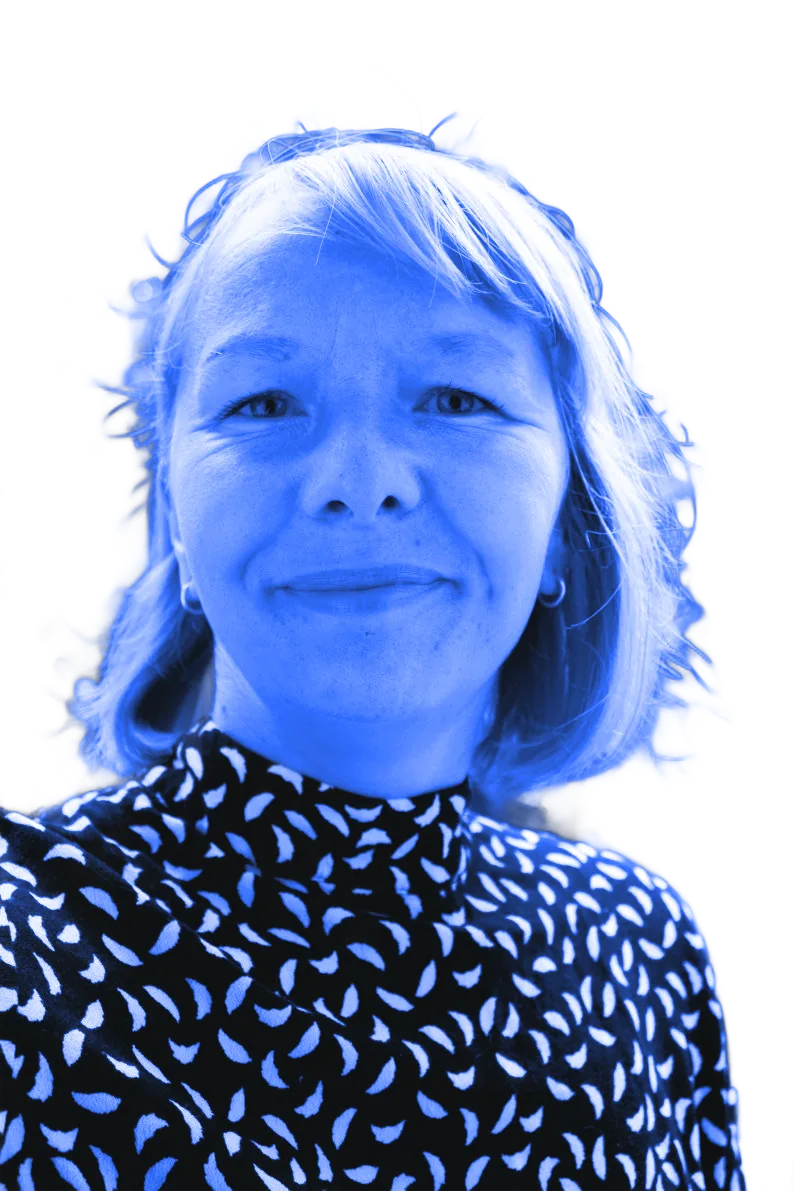
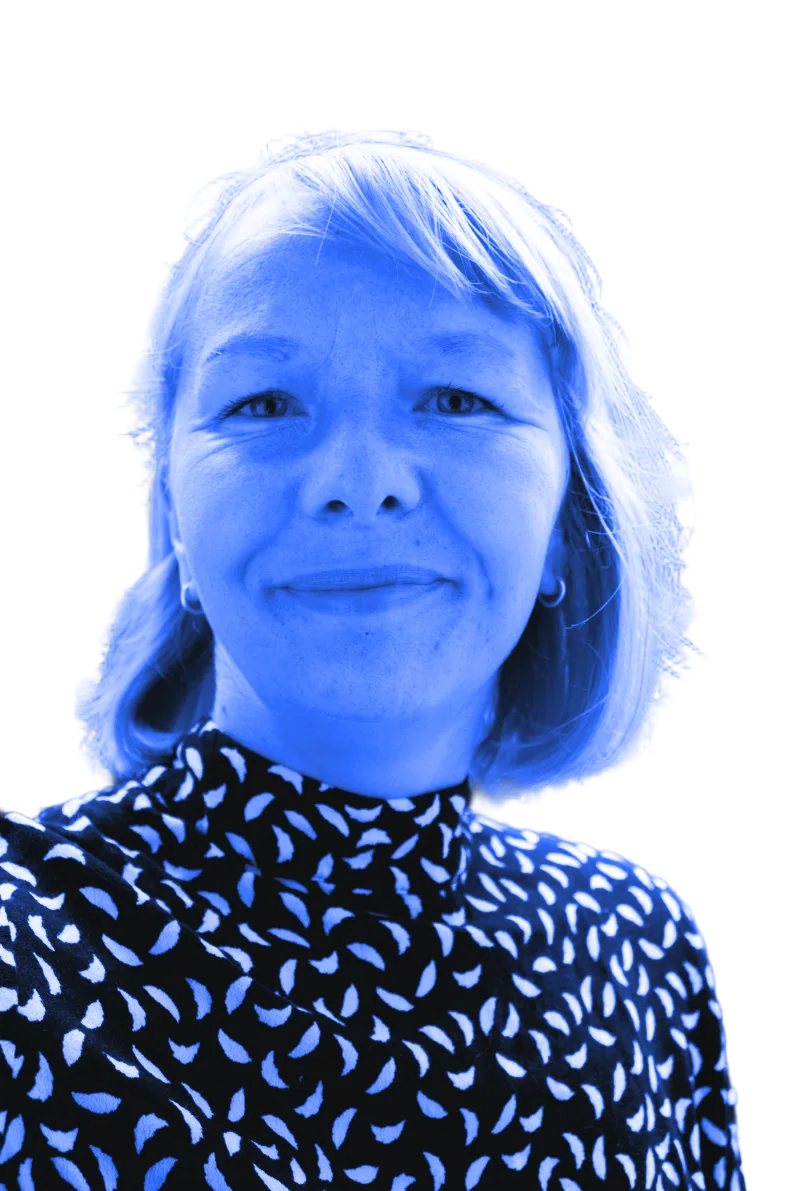
Freigestellte Fotos mit Porträt-Modell (BiRefNet) neu erzeugt: sauberere Haarkanten; Vergleich mit Photocraft im Werkzeug dokumentiert
Claude-Session: https://claude.ai/code/session_01DgHRh8FoC8rL4iNtf1G8sb

diff --git a/website/entwurf-startseite/index.html b/website/entwurf-startseite/index.html
@@ -150,7 +150,7 @@
       <figure><div class="ew-rahmen"><img src="../bilder/blau/studio-aah-gruenderin-anna-haertelt-frei-blau.webp" alt="Anna Härtelt mit Brille, blau getönt, vor blauem Hintergrund" width="768" height="1024" loading="lazy"></div><figcaption>Blau getönt auf Blau</figcaption></figure>
       <figure><div class="ew-rahmen"><img src="../bilder/blau/studio-aah-gruenderin-anna-haertelt-frei-sw.webp" alt="Anna Härtelt mit Brille in Schwarz-Weiß vor blauem Hintergrund" width="768" height="1024" loading="lazy"></div><figcaption>Schwarz-Weiß auf Blau</figcaption></figure>
     </div>
-    <p class="ew-notiz">Freigestellt mit einem frei verfügbaren KI-Modell (IS-Net). Die blaue Fläche kommt aus dem CSS – die Farbe lässt sich also jederzeit tauschen.</p>
+    <p class="ew-notiz">Freigestellt mit einem frei verfügbaren KI-Modell für Porträts (BiRefNet), ausgehend von den Web-Fassungen der Fotos – mit den Originaldateien in voller Auflösung werden die Haarkanten noch feiner. Die blaue Fläche kommt aus dem CSS – die Farbe lässt sich also jederzeit tauschen.</p>
   </section>
 
   <section class="ew-abschnitt" aria-labelledby="paare">

diff --git a/werkzeuge/grafiken/freistellen.py b/werkzeuge/grafiken/freistellen.py
@@ -3,10 +3,14 @@
 
 Anna: „Der Hintergrund muss monochrom sein“ – die Person steht freigestellt vor einer
 einfarbigen Fläche; die Farbe der Fläche setzt das CSS (Bild mit Transparenz).
-Freistell-Modell: IS-Net „isnet-general-use“ aus den rembg-Releases (nicht im Repository):
-  https://github.com/danielgatis/rembg/releases/download/v0.0.0/isnet-general-use.onnx
+Freistell-Modelle aus den rembg-Releases (nicht im Repository, ONNX):
+  empfohlen für Porträts (Haare): BiRefNet-portrait-epoch_150.onnx (ca. 970 MB, braucht viel Arbeitsspeicher)
+  https://github.com/danielgatis/rembg/releases/download/v0.0.0/BiRefNet-portrait-epoch_150.onnx
+  schneller, gröber: isnet-general-use.onnx (gleiche Adresse, anderer Dateiname)
+Vergleich am 13.10.2026: BiRefNet-portrait schneidet die Haare sauberer; Photocraft („Motiv auswählen“)
+erkannte nur den Pullover, seine Kantenverfeinerung brachte danach kaum noch Gewinn.
 Benötigt: numpy, onnxruntime, Pillow.
-Aufruf vom Repository-Ordner aus: python3 werkzeuge/grafiken/freistellen.py PFAD/isnet-general-use.onnx
+Aufruf vom Repository-Ordner aus: python3 werkzeuge/grafiken/freistellen.py PFAD/MODELL.onnx
 """
 import sys
 from pathlib import Path
@@ -22,9 +26,16 @@ ZIEL = Path("website/bilder/blau")
 BILDER = ["anna-haertelt-portraet.jpg", "studio-aah-gruenderin-anna-haertelt.webp"]
 
 
-def maske(sitzung, bild):
-    x = np.asarray(bild.resize((1024, 1024), Image.LANCZOS), dtype=np.float32) / 255.0 - 0.5
-    vorhersage = sitzung.run(None, {sitzung.get_inputs()[0].name: x.transpose(2, 0, 1)[None]})[0][0, 0]
+def maske(sitzung, bild, birefnet):
+    x = np.asarray(bild.resize((1024, 1024), Image.LANCZOS), dtype=np.float32)
+    if birefnet:  # Vorverarbeitung wie in rembg (BiRefNet)
+        x = x / max(float(x.max()), 1.0)
+        x = (x - np.array([0.485, 0.456, 0.406], dtype=np.float32)) / np.array([0.229, 0.224, 0.225], dtype=np.float32)
+    else:  # IS-Net
+        x = x / 255.0 - 0.5
+    vorhersage = sitzung.run(None, {sitzung.get_inputs()[0].name: x.transpose(2, 0, 1)[None].astype(np.float32)})[0][0, 0]
+    if birefnet:
+        vorhersage = 1 / (1 + np.exp(-vorhersage))
     vorhersage = (vorhersage - vorhersage.min()) / (vorhersage.max() - vorhersage.min())
     return Image.fromarray((vorhersage * 255).astype(np.uint8)).resize(bild.size, Image.LANCZOS)
 
@@ -32,11 +43,16 @@ def maske(sitzung, bild):
 def main():
     if len(sys.argv) < 2:
         sys.exit("Aufruf: python3 werkzeuge/grafiken/freistellen.py PFAD/isnet-general-use.onnx")
-    sitzung = ort.InferenceSession(sys.argv[1], providers=["CPUExecutionProvider"])
+    optionen = ort.SessionOptions()
+    optionen.enable_cpu_mem_arena = False  # spart Arbeitsspeicher (BiRefNet ist groß)
+    optionen.enable_mem_pattern = False
+    optionen.intra_op_num_threads = 2
+    sitzung = ort.InferenceSession(sys.argv[1], sess_options=optionen, providers=["CPUExecutionProvider"])
+    birefnet = "birefnet" in Path(sys.argv[1]).name.lower()
     ZIEL.mkdir(parents=True, exist_ok=True)
     for datei in BILDER:
         bild = ImageOps.exif_transpose(Image.open(QUELLE / datei)).convert("RGB")
-        alpha = maske(sitzung, bild)
+        alpha = maske(sitzung, bild, birefnet)
         grau = ImageOps.autocontrast(bild.convert("L"), cutoff=1)
         stamm = Path(datei).stem
         for name, person in [("frei-blau", einfaerben(grau, FARBVERLAEUFE["triton"])), ("frei-sw", grau.convert("RGB"))]:
